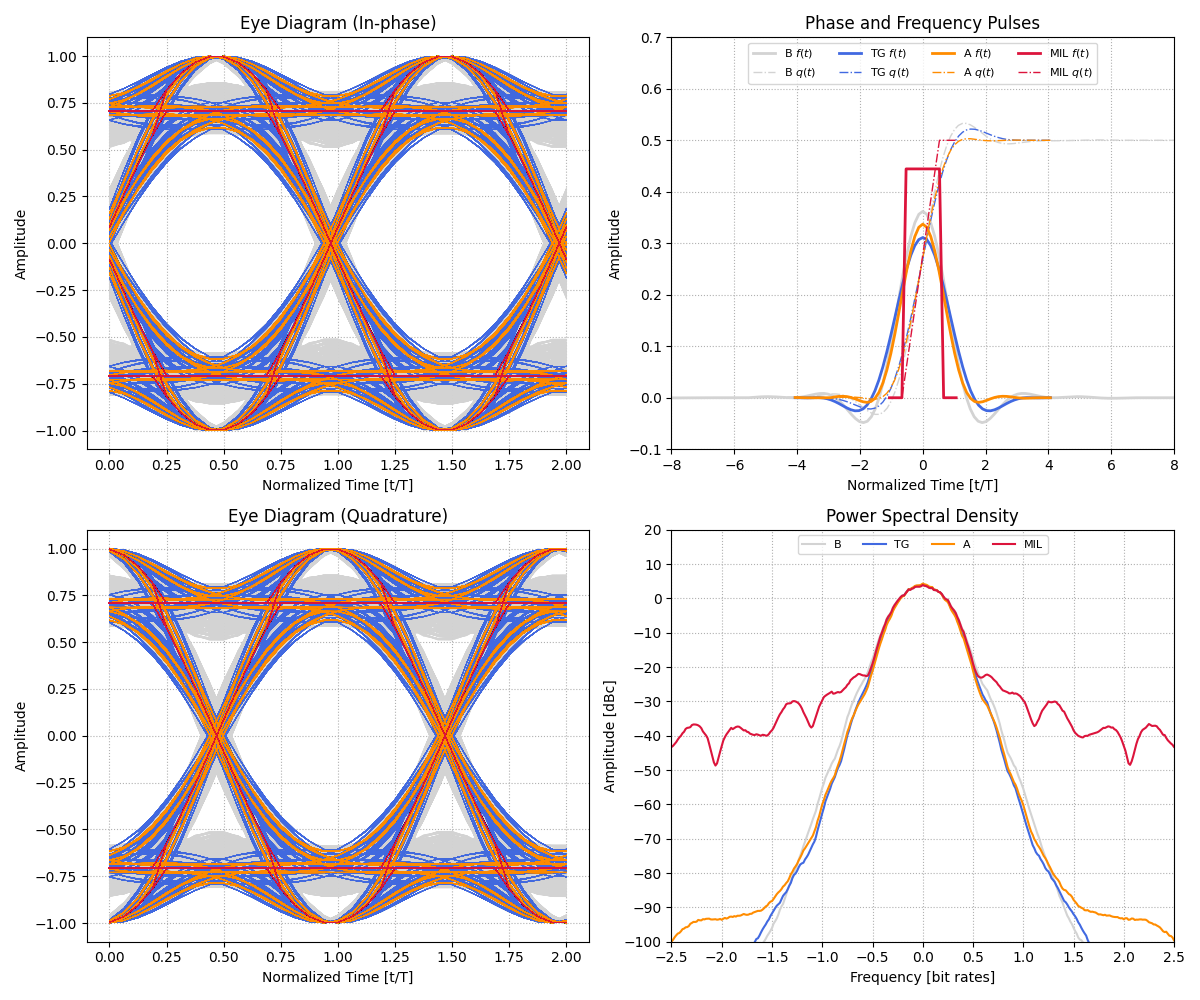
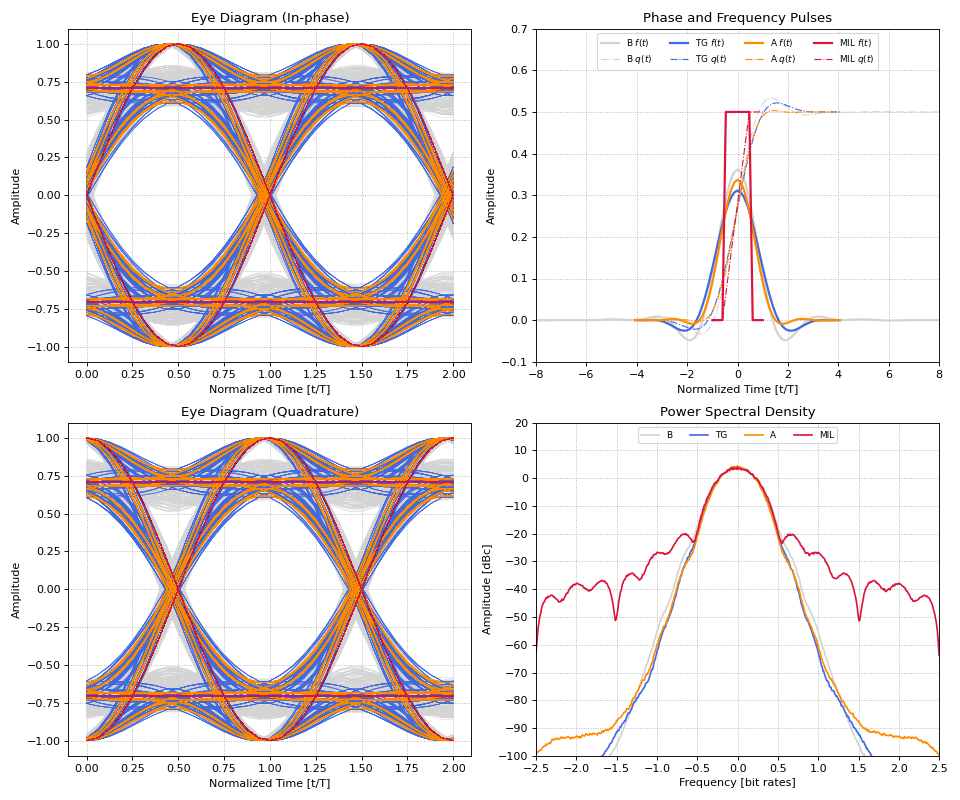
SOQPSK-MIL was looking wrong, correct the pulse filter and also update some images.

diff --git a/examples/soqpsk_example.py b/examples/soqpsk_example.py
@@ -28,7 +28,7 @@ j = complex(0, 1)
 if __name__ == "__main__":
     # Constants
     sps = 8
-    fft_size = 2**9
+    fft_size = 2**10
     mod_index = 1 / 2
     pulse_pad = 0.5
 
@@ -40,7 +40,7 @@ if __name__ == "__main__":
     symbols = symbol_precoder(bit_array)
 
     # Create plots and axes
-    fig_eye, eye_const_axes = plt.subplots(2, 2, figsize=(12, 10), dpi=100)
+    fig_eye, eye_const_axes = plt.subplots(2, 2, figsize=(12, 10), dpi=80)
     eye_real_ax: Axes = eye_const_axes[0, 0]
     eye_imag_ax: Axes = eye_const_axes[1, 0]
     pulse_ax: Axes = eye_const_axes[0, 1]
@@ -63,8 +63,8 @@ if __name__ == "__main__":
         )
         normalized_time /= 2  # SOQPSK symbols are spaced at T/2
         eye_diagram(
-            normalized_time,
-            modulated_signal,
+            normalized_time[:normalized_time.size//4],
+            modulated_signal[:normalized_time.size//4],
             sps=sps,
             modulo=4,
             eye_ax=(eye_real_ax, eye_imag_ax),

diff --git a/waveforms/viz/__init__.py b/waveforms/viz/__init__.py
@@ -42,12 +42,14 @@ def eye_diagram(  # noqa: PLR0913
             signal.real[idx_start : idx_start + sps * modulo + 1],
             linewidth=0.3,
             color=color,
+            alpha=0.7,
         )
         imag_ax.plot(
             (time[idx_start : idx_start + sps * modulo + 1] - time[idx_start]),
             signal.imag[idx_start : idx_start + sps * modulo + 1],
             linewidth=0.3,
             color=color,
+            alpha=0.7,
         )
 
     # Format Eye diagrams

diff --git a/waveforms/cpm/soqpsk/pulse_filters.py b/waveforms/cpm/soqpsk/pulse_filters.py
@@ -76,7 +76,8 @@ def freq_pulse_soqpsk_mil(sps: int = 8) -> NDArray[np.float64]:
     Returns:
         NDArray[np.float64]: SOQPSK-MIL frequency pulse.
     """
-    return freq_pulse_soqpsk(b=0, t1=0.25, t2=0, rho=0, sps=sps)
+    # return freq_pulse_soqpsk(b=0, t1=0.25, t2=0, rho=0, sps=sps)
+    return np.ones(sps, dtype=np.float64) / 2
 
 
 def freq_pulse_soqpsk_tg(sps: int = 8) -> NDArray[np.float64]:

diff --git a/examples/soqpsk_detection.py b/examples/soqpsk_detection.py
@@ -24,7 +24,7 @@ from waveforms.viterbi.algorithm import SOQPSKTrellisDetector
 # Set seeds so iterations on implementation can be compared better
 rng = np.random.Generator(np.random.PCG64(seed=1))
 
-PN_DEGREE = 15
+PN_DEGREE = 20
 DATA_GEN = PNSequence(PN_DEGREE)
 DATA_BUFFER = np.packbits([DATA_GEN.next_bit() for _ in range(2**PN_DEGREE - 1)])
 j = complex(0, 1)
